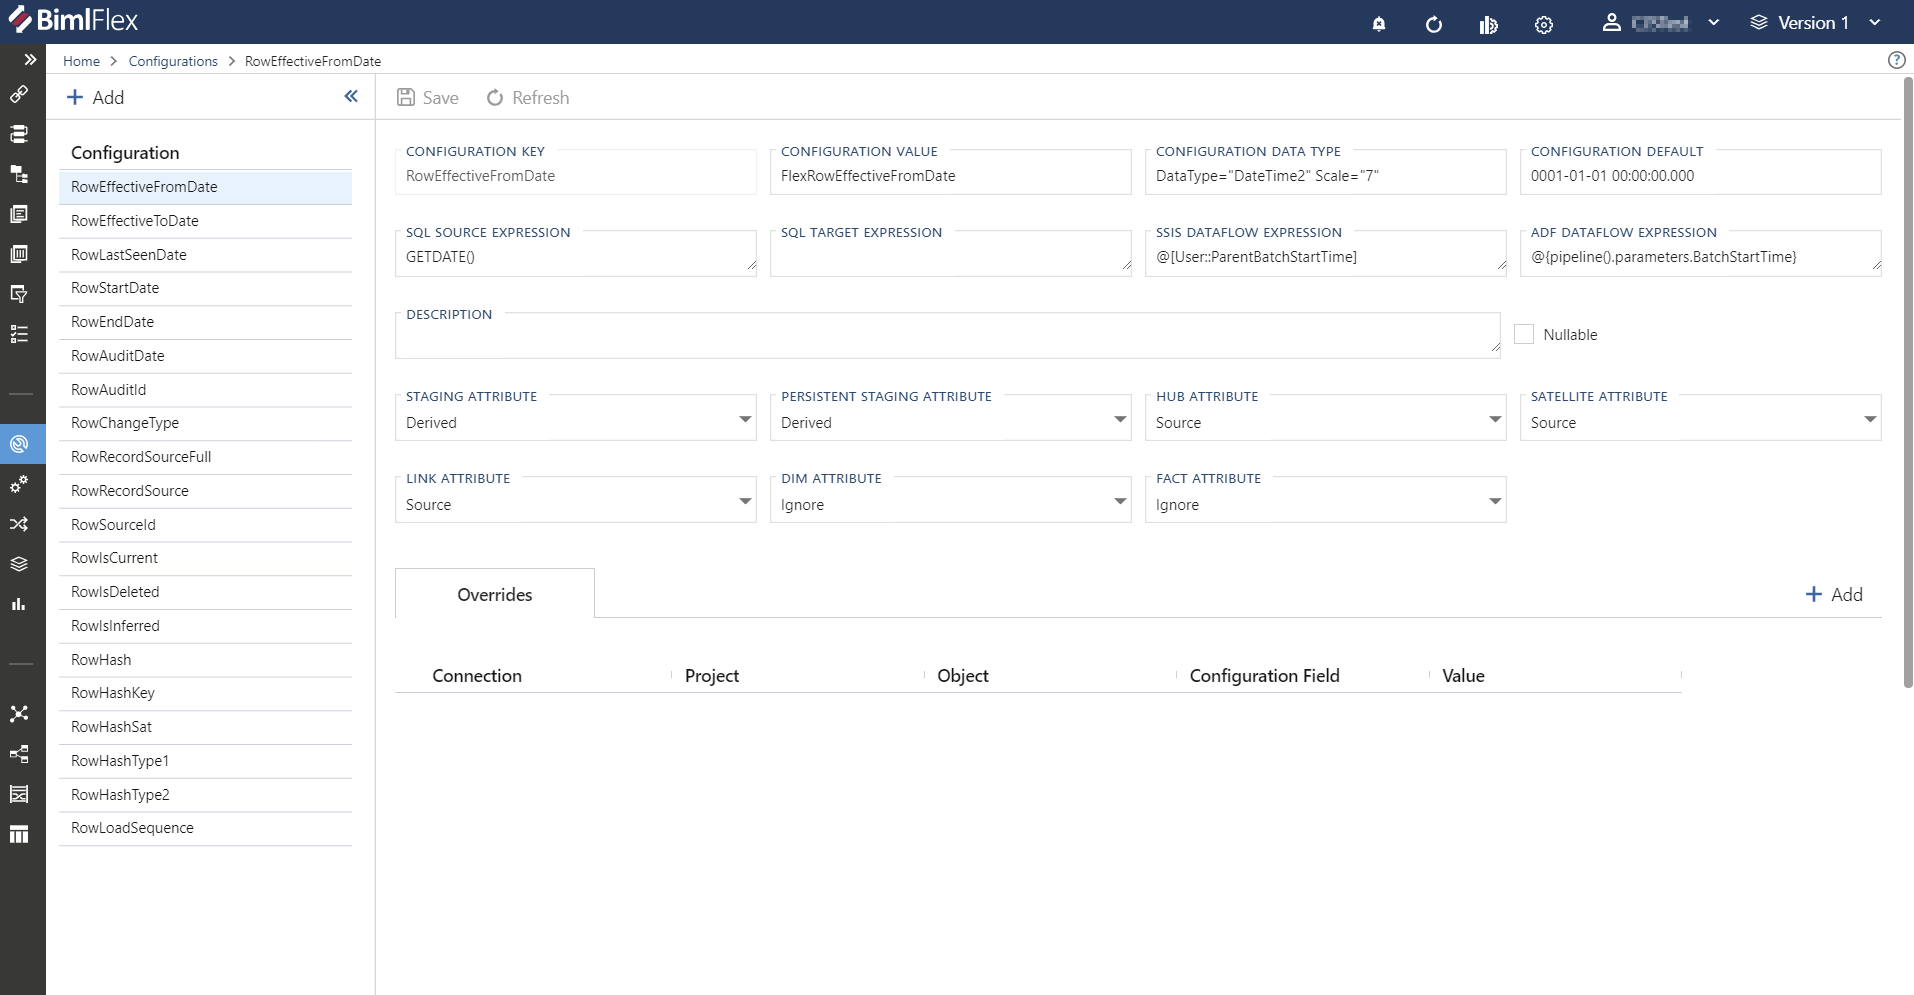
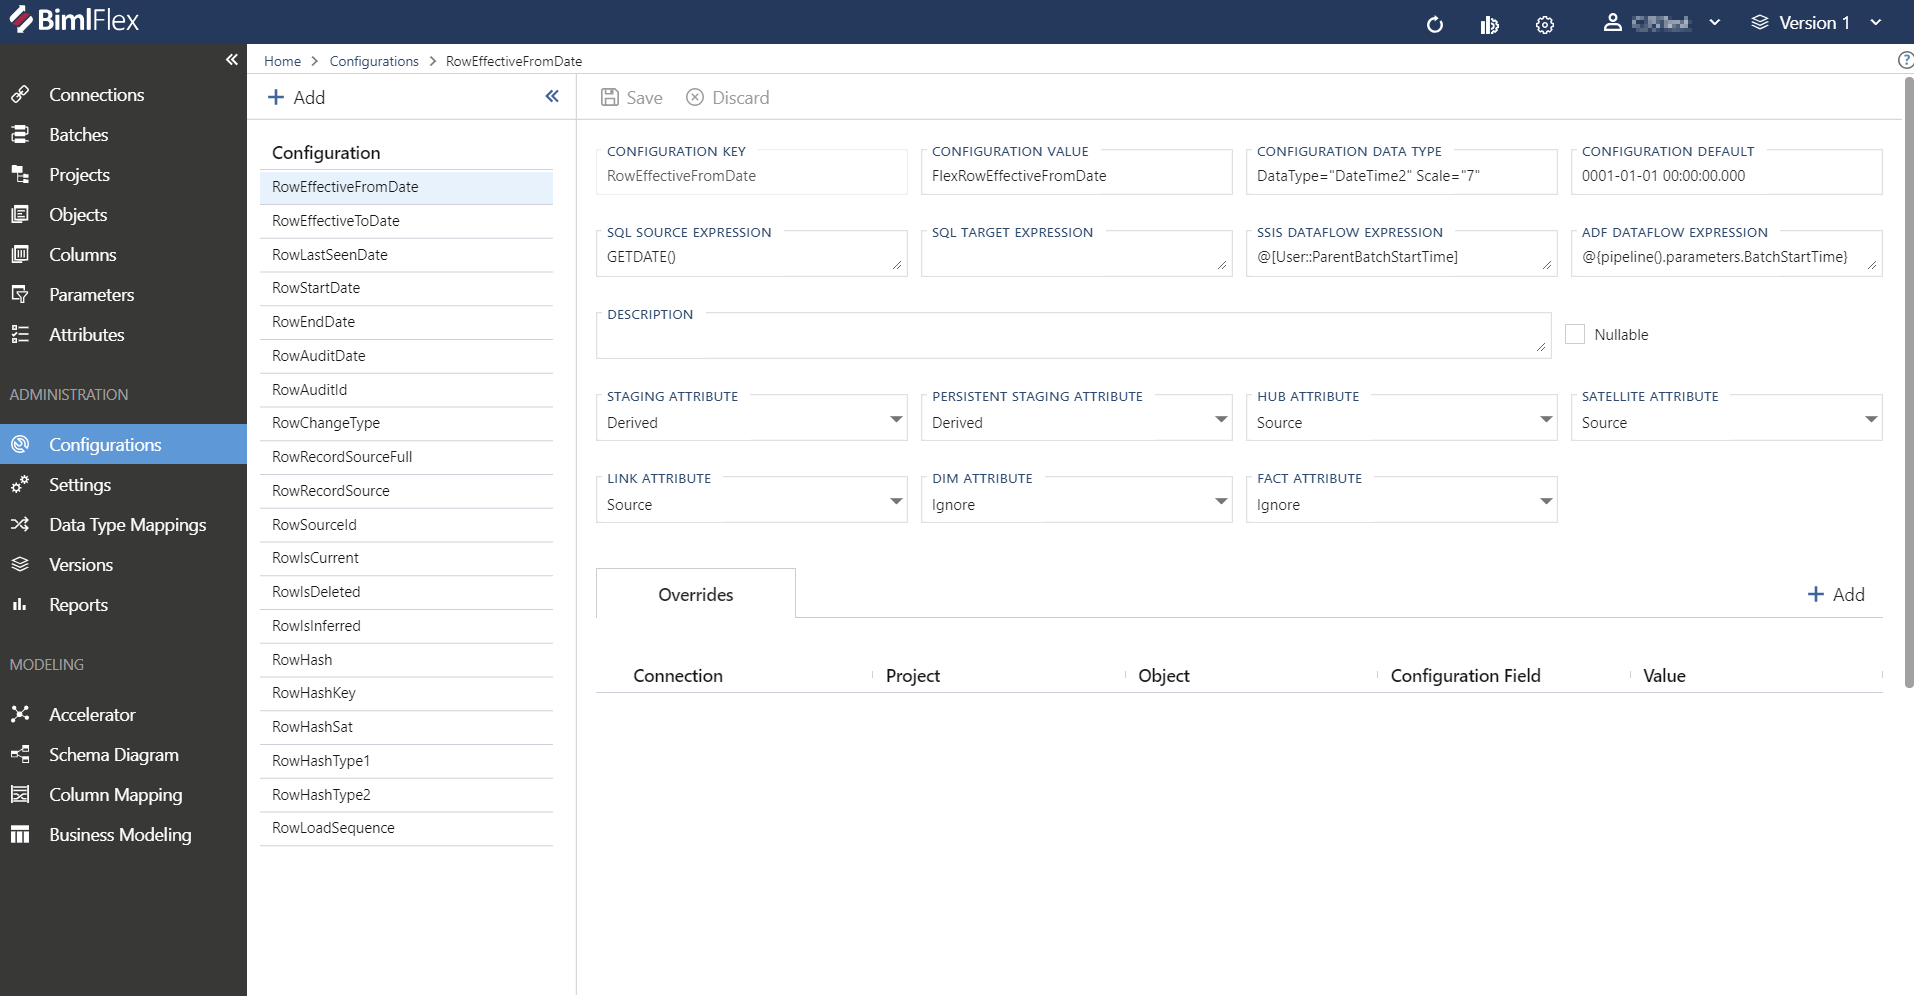
edits to "in the box" docs + release notes master

diff --git a/bimlflex/release-notes/release-notes.md b/bimlflex/release-notes/release-notes.md
@@ -1,6 +1,7 @@
 ---
 uid: bimlflex-release-notes
 name: BimlFlex Release Notes
+Summary: Release Notes for current and most recent version of BimlFlex
 ---
 # Release Notes
 
@@ -28,11 +29,15 @@ Documentation providing a step-by-step walkthrough for this process can be found
 
 ## Settings Changes
 
-* Update: The Accelerator and Data Vault process has several new optional configurations to better control Data Vault behavior.
-  This includes settings to control if individual source keys should be added to the Hubs and Links as attributes, if Link Satellites should use record source naming convention by default.
-* The Existing Setting `SsdtOutputPath` has been moved to the SSDT settings group.
+The Accelerator and Data Vault processes have several new optional configurations to better control Data Vault behavior.
 
-The Following setting has been added to control the Data Vault Accelerator:
+* Added settings to control if individual source keys should be added to Hubs and Links as attributes.
+* Added settings for if Link Satellites should use record source naming convention by default.
+* The Existing Setting `SsdtOutputPath` has been moved to the Ssdt settings group.
+
+Documentation regarding the updated delete functionality can be found here: [TO DO](xref:TODO: Add link).
+
+The following setting has been added to control the Data Vault Accelerator:
 
 * DvAppendLinkSatelliteRecordSource
 (todo: more DVA settings?)
@@ -54,15 +59,15 @@ More information on these settings: [BimlFlex-generated SQL Server Data Tool
 
 ## Azure Data Factory (ADF)
 
-* Add: ADF Flat File load support. This includes Delimited, ORC, Avro, XML and binary files. More information on the ADF Flat File load process: [Flat File Source to Staging](xref:flat-file-source-to-staging)
-* Update: A scenario where an SSIS load to Synapse blob storage staging file archive process would use the archive SAS Token to connect to the staging account has been addressed.
-* Fixed an error in the app for blob storage connections that created empty string names for the integration runtime.BimlStudio errors when it tries to create an integration runtime with an empty string as a name.
+* Added ADF Flat File load support. This includes Delimited, ORC, Avro, XML and binary files. More information on the ADF Flat File load process: [Flat File Source to Staging](xref:flat-file-source-to-staging).
+* Scenarios where an SSIS load to Synapse blob storage staging file archive process used the archive SAS Token to connect to the staging account has been addressed.
+* Fixed an error in the app for blob storage connections that created empty string names for the integration runtime.BimlStudio errors when attempting to create an integration runtime with an empty string as a name.
 * Updated AKV linked services to use the actual url of the key vault.
-* Fixed issue with file column names in Blob Sources.
-* Improved connection string emission to move away from the SecureString pattern. This populates the appropriate subfields inside of Azure after deploying your assets.
-* Fixed issue when deploying by ARM template, that caused the Azure Blob Storage authentication method to incorrectly register as Service Principal ID.
-* We now can pass Integration Runtimes into BLOB Storage and DataLakeStoreGen2 Linked Services
-* Fixed issue with `Hash Column` of large Synapse Tables (greater than 500 columns).
+* Fixed an issue with file column names in Blob Sources.
+* Improved connection string emission to deviate from the SecureString pattern. This populates the appropriate subfields inside of Azure after deploying assets.
+* Fixed an issue when deploying by ARM template, that caused the Azure Blob Storage authentication method to incorrectly register as Service Principal ID.
+* Integration Runtimes can now pass into BLOB Storage and DataLakeStoreGen2 Linked Services.
+* Fixed an issue with `Hash Column` of large Synapse Tables (greater than 500 columns).
 
 ## BimlFlex App Help Sidebar Navigation
 
@@ -77,76 +82,82 @@ The Help section sidebar navigation also features links to BimlFlex documentatio
 ## UI Improvements
 
 * Autoselect customers on database change.
-* The layout in the Accelerator page has been updated and the source pane is now closed by default. Click the open arrow to open the source pane to view the active source objects.
+* The layout in the Accelerator page has been updated so the source pane is closed by default. Click the open arrow to view the source pane and its active source objects.
 * Improved entity and model border styling.
 * Improved app navigation and user experience when creating a new entity.
-* We now allow users to create PIT tables without datetime columns.
+* Enabled users to create PIT tables without datetime columns.
+* Enabled users to specify modeling patterns with ELM set as the default methodology.
 * Prevent navigation when there are pending configuration changes.
 
 ## BimlFlex Accelerator
 
-* Updated so that Connection point handles are displayed upon selection of entities
-* Context menu appears on paths when location is selected
-* Path calculation is updated to support multiple connection points between entities
-* Drag and drop behavior is updated to add references between connection points
-* Ellipses outside of nodes added to match application stylings
-* Relationship modeling default grid layout now adds the relationships between entities, with smaller connectors
-* Merged UOW now uses material modals
-* UOW drag now only highlights valid targets
+* Updated so that Connection point handles are displayed upon selection of entities.
+* Context menu appears on paths when location is selected.
+* Path calculation is updated to support multiple connection points between entities.
+* Drag and drop behavior is updated to add references between connection points.
+* Ellipses outside of nodes added to match application stylings.
+* Relationship modeling default grid layout now adds the relationships between entities, with smaller connectors.
+* Merged UOW now uses material modals.
+* UOW drag now only highlights valid targets.
 
 ## Delete Detection
 
 * Added additional delete detection functionality to SSIS, ADF and MSSQL ELT processes.
 * TODO: Add note on Delete detection change on tuples to named classes for customers who use existing bespoke scripts and biml scripts.
 
-Read More on the updated delete functionality here: [Delete Detection in BimlFlex](xref:bimlflex-delete-detection)
-
+Read More on the updated delete functionality here: [TO DO](xref:TODO: Add link)
 
 ## Business Modeling
 
-* We have added the ability to use a business modeling approach to Data Vault modeling.
+* BimlFlex now features the ability to use a business modeling approach to Data Vault modeling.
 
 Read More on the exciting new Business Modeling functionality here: [Business Modeling in BimlFlex](xref:business-modeling)
 
 ## Data Mart/Data Vault
 
-* Added a fix to correctly calculate `FlexRowHashtype1` on Fact tables by using source column data types.
-* Fixed issue where the `Clone` action would include 'Transient' (TRS) and 'Ignore' (IGN) columns, as these change types are to indicate no further processing.
+* Added a fix to correctly calculate `FlexRowHashtype1` on fact tables by using source column data types.
+* Fixed an issue where the `Clone` action would include 'Transient' (TRS) and 'Ignore' (IGN) columns, as these change types are to indicate no further processing.
 * Resolved an issue where the Data Vault Point In Time object creation would not allow the object to be saved unless there were attribute datetime columns present.
-* Fixed issue with duplicate surrogate keys in STG table for REF tables.
-* Ensured all references to bridge objects to use 'BRG' rather than 'BRD', to ensure uniformity.
+* Fixed an issue with duplicate surrogate keys in STG table for REF tables.
+* Ensured all references to bridge objects to use 'BRG' rather than 'BRD', to enforce uniformity.
 
 ## Providers
 
-* Fixed issue with `Oracle` import where `UNISTR()` needed to be used.
-* Fix metadata import issue for `MSOLEDBSQL` provider
+* Fixed an issue with `Oracle` import where `UNISTR()` was required.
+* Fixed a metadata import issue for `MSOLEDBSQL` provider.
 
 ## BimlFlex DB
 
-* Remove `ImportRequests` table from database.
-* Updated the SP to force include customer and version entities in metadata push so that metadata sets will work when no corresponding customer or version exists.
+* Removed `ImportRequests` table from database.
+* Updated the SP to force include customer and version entities in metadata push so metadata sets will work when no corresponding customer or version exists.
 
 ## BimlCatalog DB
 
-* Resolved `RowCount` stored procedure bug that resulted in orphaned open transactions.
+* Resolved a `RowCount` stored procedure bug that resulted in orphaned open transactions.
 
 ## SQL Based ELT
 
-* Fixed bug where `End Date` would only generate an update for one record.
-* Fixed issue where `End Date` was retrieving the incorrect date.
-* Fixed issue where `FlexRowIsCurrent` was not populating with values.
+* Fixed a bug where `End Date` would only generate an update for one record.
+* Fixed an issue where `End Date` was retrieving the incorrect date.
+* Fixed an issue where `FlexRowIsCurrent` was not populating with values.
 
 ## SSIS
 
-* Resolved issue where Blob Archive step in SSIS refers to the wrong account. Now Archive Staging step refers to the correct staging account, container and file.
-* Fixed issue where Type1 columns were generating in SSIS when none were present in the source.
+* Resolved an issue where Blob Archive step in Ssis referred to the wrong account. Archive Staging step now refers to the correct staging account, container, and file.
+* Fixed an issue where Type1 columns were generating in SSIS when none were present in the source.
 * Added required SsisServer to $ssisExecutionParameter generation.
 * Fixed HashTable parameter looping.
 
+> [!NOTE]
+> In BimlFlex 2019.1, External Tables were always included, which sometimes led to issues with lacking Visual Studio support.
+> Earlier BimlFlex 2020 releases removed these SSDT artifacts and applied creation of External Tables as part of the load packages.
+> The BimlFlex 2020.2 release adds control to the creation of, and additional defaults for, dependency objects.
+
+<!--
 Note that in the BimlFlex 2019 release the External Tables were always included, sometimes leading to issues with lacking Visual Studio support. Earlier BimlFlex 2020 releases removed these SSDT artifacts and applied creation of external tables as part of the load packages. This release adds control to the creation of, and additional defaults for, dependency objects.
+--> 
 
 download links to this build:
 
 * [bimlflexdevsetup_20.2.nnn.0.exe](https://varigence.com/downloads/bimlflexdevsetup_20.2.nnn.0.exe)
 * [bimlflexruntimesetup_20.2.nnn.0.exe](https://varigence.com/downloads/bimlflexruntimesetup_20.2.nnn.0.exe)
-

diff --git a/bimlflex/metadata-editors/bimlflex-tour.md b/bimlflex/metadata-editors/bimlflex-tour.md
@@ -2,17 +2,17 @@
 uid: bimlflex-tour
 title: BimlFlex Tour
 ---
-# BimlFlex Tour  
+# BimlFlex Tour
 
-The following sections describe the UI elements that make up an Entity Editor and how the features provide navigation and interaction.  
+The following sections describe the UI elements that make up an Entity Editor and how the features provide navigation and interaction.
 
 [!include[BimlFlex Toolbar](_incl-toolbar.md)]
 
 ## BimlFlex Menu  
 
-The BimlFlex Menu provides quick navigation to the available editors and modeling tools.  The menu is dynamic and automatically expands and hides based on the current size of the application window.  If the menu is hidden you can use the button annotated below to open.
-
-**BimlFlex Menu**
+The BimlFlex Menu provides quick navigation to the available editors and modeling tools.
+The menu is dynamic and automatically expands and hides based on the current size of the application window.
+If the menu is hidden you can use the button annotated below to open.
 
 ![BimlFlex Menu](images/bfx-navigation-menu-01.png "BimlFlex Menu")
 
@@ -28,9 +28,9 @@ The BimlFlex Menu provides quick navigation to the available editors and modelin
 The BimlFlex Metadata Editors are provided to give a streamlined and intuitive way to enter and manage your metadata.
 The available features may vary from editor to editor but they all use the same layout.
 What follows is a quick tour of the various editor elements and how they function.
-For detailed information of the available the features reference the relevant documentation for the appropriate editor.  
+For detailed information of the available the features reference the relevant documentation for the appropriate editor.
 
-**Editor Layout**
+### Editor Layout
 
 ![BimlFlex Editor](images/bfx-metadata-editor-layout.png "BimlFlex Editor")
 
@@ -38,7 +38,7 @@ For detailed information of the available the features reference the relevant do
 ![BimlFlex Editor](images/bimlflex-app-editor.png "BimlFlex Editor")  
 -->
 
-## Breadcrumb Navigation Elements  
+### Breadcrumb Navigation Elements  
 
 BimlFlex features a breadcrumb navigation to easily raise your view to a higher context when needed.  The entities shown in the breadcrumbs will depend on the entity that is being viewed and the navigation path that was used.  Elements are provided to select either the associated parent entity or to navigate without filter context to a parent element editor.  
 
@@ -72,7 +72,7 @@ The Editor Action Buttons provide quick access to common useful features managin
 
 The entity list enumerates all of the available entities for the current filter context.  When and editor is opened through the BimlFlex Menu the default action is to open without and filter context, exposing all the the given entity type.  When an editor is opened via a [Navigation Transition] generally a context for the entities **Project** or **Connection** is applied, but ultimately may vary based on the transitional context.  The amount and availability of the the columns is determined by the editor being used.  
 
-**Entity List - Single Column**  
+### Entity List - Single Column
 
 ![Entity List - Single Column](images/bfx-entity-column.png "Entity List - Single Column")
 <!--
@@ -82,7 +82,7 @@ The entity list enumerates all of the available entities for the current filter 
 />
 -->
 
-**Entity List - Multi-Column**
+### Entity List - Multi-Column
 
 ![Entity List - Mutli-Column](images/bfx-entity-list-multi-column.png "Entity List - Multi Column")
 
@@ -106,18 +106,17 @@ The entity list enumerates all of the available entities for the current filter 
 
 The **Tab and From Action Buttons** list the actions available within the currently selected entity.  All action buttons are context specific to the currently selected tab if tab navigation function is provided the the selected editor.  As the list to large to enumerate and goes past the scope of the guide, refer to the document for the appropriate editor to view all availed actions along with their descriptions.  Many buttons feature context sensitivity and only enable/disable when appropriate.  
 
-**Tab and Form Action Buttons Example**  
-
+### Tab and Form Action Buttons Example
 
 ![Tab and Form Action Buttons](images/bfx-action-bar.png "Tab and Form Action Buttons")
 <!--
 ![Tab and Form Action Buttons Example](images/bimlflex-app-form-actions.png "Tab and Form Action Buttons Example")  
 -->
-## Tab List  
+### Tab List  
 
 If the selected editor supports them, tabs are used to switch between managing of the selected parent entity (Details Tab) and managing of the associated child entities.  
 
-**Tab List Example**  
+### Tab List Example
 
 ![Tab List](images/bfx-tabs.png "Tab List")
 
@@ -132,7 +131,7 @@ The Tab and Form Content area is where all the metadata for the associated entit
 
 A Field List provides a series of context sensitive fields.  BimlFlex will dynamically hide and expose fields depending on the current properties of the selected entity.  Additionally BimlFlex provides field level validations with the ability to highlight misconfigured metadata.  
 
-**Fields Content**  
+### Fields Content
 
 ![Fields Content](images/bfx-fields-content.png "Fields Content")
 <!--
@@ -166,7 +165,8 @@ When changes are complete, click the **Ok** button to keep the changes that have
 
 Table content is provided when an entity features some complex logic and should be edited through a dialog box.  New items can be entered entered via the <img class="icon-inline" src="images/svg-icons/add.svg"/> **Add** button.  Existing items can be edited by selecting a row and then using the <img class="icon-inline" src="images/svg-icons/edit.svg"/> **Edit** button.  The same filter as sort functions that are provided on the **Entity List** are available on these content types.  
 
-**Table Content**  
+#### Table Content
+
 <!--
 ![Table Content](images/bimlflex-app-form-table.png "Table Content")  
 -->
@@ -191,12 +191,12 @@ Click the light blue value will allow you to navigate directly to the the object
 Click the 'Compass' icon for global navigation to any entity within the project.
 Every navigable entity within the BimlFlex application will have such an icon.
 
-BimlFlex now features a checkbox UI feature for any list of items being viewed.
+BimlFlex features a checkbox UI system for any list of items being viewed.
 Highlight over a single item, and a checkbox will appear on the left.
-If selected, checkboxes will appear for all items in the list. 
+If selected, checkboxes will appear for all items in the list.
 Selecting the checkbox at the top of the list will select/deselect all items.
 Having multiple items selected will allow the user to bulk-archive as many items as are currently selected. 
-With multiple items selected, users may select `Integration Key` from the **Objects** Action Bar to enter the Generate Derived Integration Key with the desired items already selected.
+With multiple items selected, users may select `Integration Key` from the **Objects** Action Bar to enter the Generate Derived Integration Key dialog menu with the desired items already selected.
 
 <!--
 ![Multiple Views](images/bimlflex-app-form-navigational-transitions.png "Multiple Views")  

diff --git a/bimlflex/metadata-editors/settings.md b/bimlflex/metadata-editors/settings.md
@@ -45,13 +45,12 @@ When utilizing the Search bar, if a user hovers over a specific search term the 
 > For users who are unsure of the *specific* setting they need, beginning a search with "*" will allow users to search setting descriptions as well as setting titles. This will assist in guiding users to their desired setting based on associated terminology used in their search.
 
 When applicable, settings that involve editing SQL code will appear in a window that mirrors standard SQL input styling and syntax.
-<!--
-TODO: Add image of SQL Editor Window (Core -> Lookup Table Pattern)
--->
+
+Settings that are "Yes or No" selections will be presented with a checkbox UI to indicate their setting.
+
+Settings that contain required values will be outlined in red as indicated below. 
 
 ![BimlFlex App - Settings](images/bimlflex-app-settings.64566.png "BimlFlex App - Settings")
-
-Settings that contain required values will be outlined in red and indicated as such.
 
 ## Command Bar Buttons
 

diff --git a/bimlflex/modeling-tools/business-modeling.md b/bimlflex/modeling-tools/business-modeling.md
@@ -101,6 +101,6 @@ From the Relationship Modeling screen, users will be able to drag Hubs and Links
 
 ## Business Modeling Endgame
 
-Creating an agile data warehouse through Business Modeling changes the focus from optimizing data to ensuring that all of the proper business relationships and entities are accounted for.
+Creating an agile data warehouse through Business Modeling changes the focus from optimizing existing data to ensuring that all of the proper business relationships and entities are accounted for.
 Once a business model has been created, tweaked, and agreed upon by both business professionals and IT/technical consultants, the data is then loaded into those Hubs and Links based on the agreed upon design.
 Creating a functional business model puts the onus on accurately organizing data before loading it, rather than conversely trying to organize an entire source database of data into proper Hubs and Links.

diff --git a/bimlflex/modeling-tools/accelerator.md b/bimlflex/modeling-tools/accelerator.md
@@ -229,7 +229,7 @@ Any remaining tables and Integration Keys will be used to create Hubs. The defin
 ### Accelerate Link Satellites
 
 To accelerate Link Satellites, users must first enable the option from within the **Settings** menu.
-By default, this setting is turned off. This setting will enable the Accelerator to model Link Satellites for effectiveness and attributes from source metadata. 
+By default, this setting is turned off. This setting will enable the Accelerator to model Link Satellites for effectiveness and attributes from source metadata.
 
 ![Enable Link Satellite Acceleration](images/bfx-link-satellite-setting.png "Enable Link Satellite Acceleration")
 

diff --git a/bimlflex/metadata-editors/configurations.md b/bimlflex/metadata-editors/configurations.md
@@ -24,6 +24,7 @@ The action buttons modify the **Configuration** that is active in the editor.
 <!--
 ![BimlFlex App - Configurations - Command Bar](images/bimlflex-app-configurations-command-bar.64566.png "BimlFlex App - Configurations - Command Bar")
 -->
+
 ![BimlFlex App - Configurations - Command Bar](images/bfx-configurations-command-bar.png "BimlFlex App - Configurations - Command Bar")
 
 |Icon|Action|Description|
